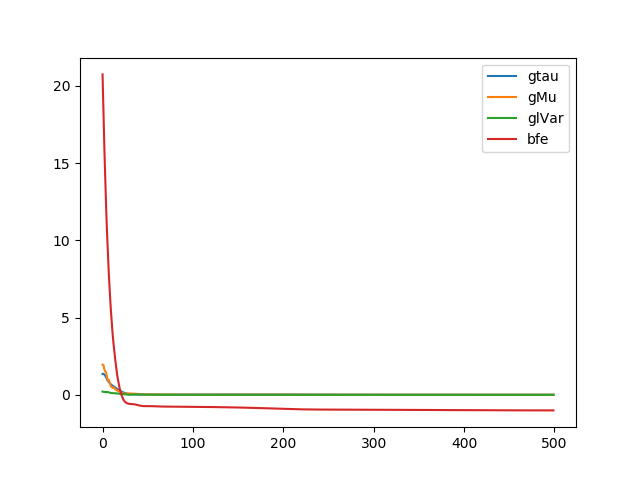
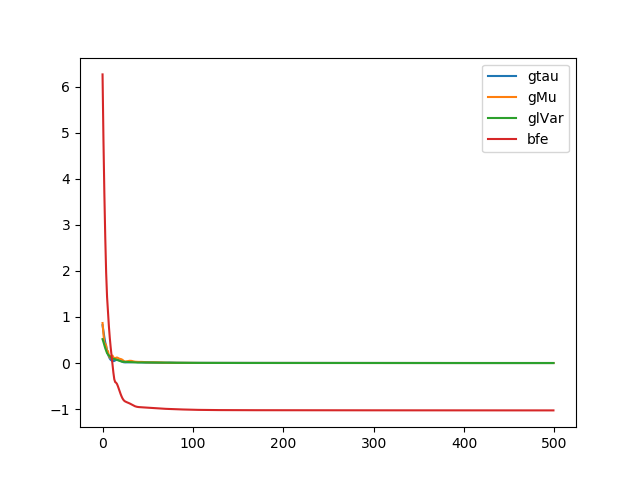
rerun continuous_mln_test_0.png with reduced size of the crv domain ([-5,5] -> [-3,3]), seem to get consistently better prediction, as suspected

diff --git a/osi/continuous_mln_test_0.py b/osi/continuous_mln_test_0.py
@@ -1,6 +1,6 @@
 import utils
 
-seed = 1
+seed = 0
 utils.set_seed(seed=seed)
 utils.set_path()
 
@@ -16,7 +16,7 @@ data = {
     ('Smoke', 'Tim'): -2,
 }
 
-domain_cont = Domain((-5, 5), continuous=True)
+domain_cont = Domain((-3, 3), continuous=True)
 
 lv_x = LV(instance)
 lv_y = LV(instance)
